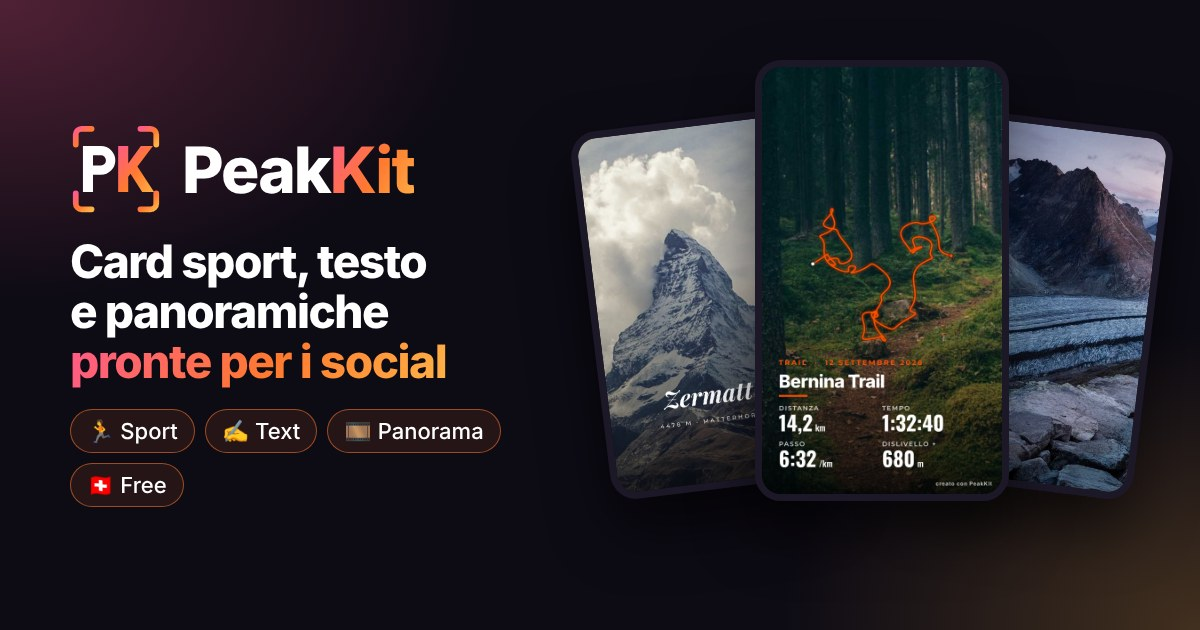
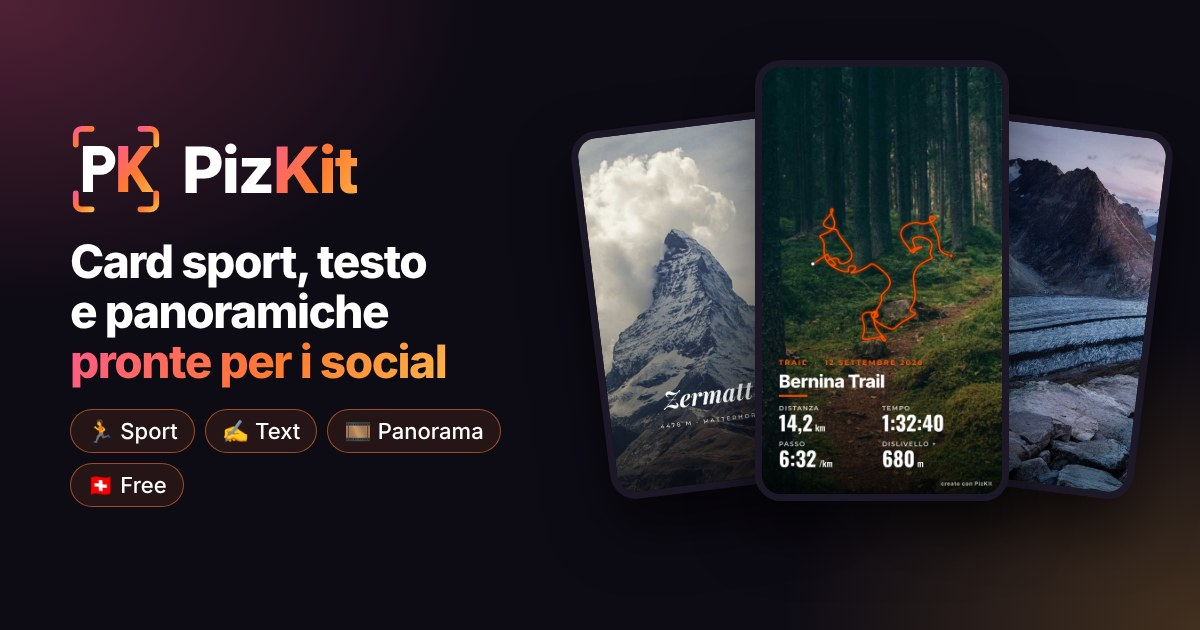
Rinomina PeakKit -> PizKit
PeakKit è già il nome di un'app per sportivi (peakkitapp.com).
PizKit: 'Piz' = cima in romancio; logo PK invariato.
Aggiornati UI, firma sulle card, manifest, anteprime home e immagine social.

Claude-Session: https://claude.ai/code/session_017tFVKR82BtrfiABxyApjMk

Changed region(s): [[0.185, 0.2111, 0.37, 0.3317], [0.7708, 0.754, 0.8017, 0.7841]]

diff --git a/src/i18n/strings.ts b/src/i18n/strings.ts
@@ -50,8 +50,8 @@ const it = {
   'common.moveH': 'Sposta foto ↔',
   'common.moveV': 'Sposta foto ↕',
   'common.filter': 'Filtro foto',
-  'common.badge': 'Firma “creato con PeakKit”',
-  'common.badgeText': 'creato con PeakKit',
+  'common.badge': 'Firma “creato con PizKit”',
+  'common.badgeText': 'creato con PizKit',
   'common.color': 'Colore',
   'common.customColor': 'Colore personalizzato',
 
@@ -199,7 +199,7 @@ const it = {
 
   // Registrazione al download
   'gate.title': 'Ti è piaciuto? ✨',
-  'gate.text': 'PeakKit resta gratuito. Per continuare a scaricare ti chiediamo nome ed email, una volta sola: ci aiutano a capire chi lo usa. Le tue foto restano sul tuo dispositivo.',
+  'gate.text': 'PizKit resta gratuito. Per continuare a scaricare ti chiediamo nome ed email, una volta sola: ci aiutano a capire chi lo usa. Le tue foto restano sul tuo dispositivo.',
   'gate.name': 'Nome',
   'gate.email': 'Email',
   'gate.consent1': 'Ho letto l’',
@@ -211,7 +211,7 @@ const it = {
   'gate.wait': 'Un attimo…',
   // App installabile
   'app.install': 'Installa l’app',
-  'app.title': 'PeakKit come app',
+  'app.title': 'PizKit come app',
   'app.text': 'Aggiungila alla schermata Home: si apre a tutto schermo come un’app vera, gratis e senza store.',
   'app.ios1': 'Tocca il pulsante Condividi',
   'app.ios2': 'Scegli “Aggiungi alla schermata Home”',
@@ -269,8 +269,8 @@ const en: Dict = {
   'common.moveH': 'Move photo ↔',
   'common.moveV': 'Move photo ↕',
   'common.filter': 'Photo filter',
-  'common.badge': '“made with PeakKit” signature',
-  'common.badgeText': 'made with PeakKit',
+  'common.badge': '“made with PizKit” signature',
+  'common.badgeText': 'made with PizKit',
   'common.color': 'Colour',
   'common.customColor': 'Custom colour',
 
@@ -411,7 +411,7 @@ const en: Dict = {
   'rate.thanks': 'Thanks for your feedback! 🙏',
 
   'gate.title': 'Enjoying it? ✨',
-  'gate.text': 'PeakKit stays free. To keep downloading, we ask for your name and email, only once: it helps us understand who uses it. Your photos stay on your device.',
+  'gate.text': 'PizKit stays free. To keep downloading, we ask for your name and email, only once: it helps us understand who uses it. Your photos stay on your device.',
   'gate.name': 'Name',
   'gate.email': 'Email',
   'gate.consent1': 'I have read the ',
@@ -422,7 +422,7 @@ const en: Dict = {
   'gate.continue': 'Continue',
   'gate.wait': 'One moment…',
   'app.install': 'Install the app',
-  'app.title': 'PeakKit as an app',
+  'app.title': 'PizKit as an app',
   'app.text': 'Add it to your Home Screen: it opens full screen like a real app, free and without an app store.',
   'app.ios1': 'Tap the Share button',
   'app.ios2': 'Choose “Add to Home Screen”',
@@ -477,8 +477,8 @@ const de: Dict = {
   'common.moveH': 'Foto verschieben ↔',
   'common.moveV': 'Foto verschieben ↕',
   'common.filter': 'Fotofilter',
-  'common.badge': 'Signatur «erstellt mit PeakKit»',
-  'common.badgeText': 'erstellt mit PeakKit',
+  'common.badge': 'Signatur «erstellt mit PizKit»',
+  'common.badgeText': 'erstellt mit PizKit',
   'common.color': 'Farbe',
   'common.customColor': 'Eigene Farbe',
 
@@ -619,7 +619,7 @@ const de: Dict = {
   'rate.thanks': 'Danke für dein Feedback! 🙏',
 
   'gate.title': 'Gefällt es dir? ✨',
-  'gate.text': 'PeakKit bleibt kostenlos. Für weitere Downloads fragen wir einmalig nach Name und E-Mail: So sehen wir, wer es nutzt. Deine Fotos bleiben auf deinem Gerät.',
+  'gate.text': 'PizKit bleibt kostenlos. Für weitere Downloads fragen wir einmalig nach Name und E-Mail: So sehen wir, wer es nutzt. Deine Fotos bleiben auf deinem Gerät.',
   'gate.name': 'Name',
   'gate.email': 'E-Mail',
   'gate.consent1': 'Ich habe die ',
@@ -630,7 +630,7 @@ const de: Dict = {
   'gate.continue': 'Weiter',
   'gate.wait': 'Einen Moment…',
   'app.install': 'App installieren',
-  'app.title': 'PeakKit als App',
+  'app.title': 'PizKit als App',
   'app.text': 'Füge sie zum Home-Bildschirm hinzu: Sie öffnet sich im Vollbild wie eine echte App – kostenlos und ohne App Store.',
   'app.ios1': 'Tippe auf den Teilen-Button',
   'app.ios2': 'Wähle «Zum Home-Bildschirm»',
@@ -685,8 +685,8 @@ const fr: Dict = {
   'common.moveH': 'Déplacer la photo ↔',
   'common.moveV': 'Déplacer la photo ↕',
   'common.filter': 'Filtre photo',
-  'common.badge': 'Signature « créé avec PeakKit »',
-  'common.badgeText': 'créé avec PeakKit',
+  'common.badge': 'Signature « créé avec PizKit »',
+  'common.badgeText': 'créé avec PizKit',
   'common.color': 'Couleur',
   'common.customColor': 'Couleur personnalisée',
 
@@ -827,7 +827,7 @@ const fr: Dict = {
   'rate.thanks': 'Merci pour ton avis ! 🙏',
 
   'gate.title': 'Ça te plaît ? ✨',
-  'gate.text': 'PeakKit reste gratuit. Pour continuer à télécharger, on te demande ton nom et ton e-mail, une seule fois : ça nous aide à savoir qui l’utilise. Tes photos restent sur ton appareil.',
+  'gate.text': 'PizKit reste gratuit. Pour continuer à télécharger, on te demande ton nom et ton e-mail, une seule fois : ça nous aide à savoir qui l’utilise. Tes photos restent sur ton appareil.',
   'gate.name': 'Nom',
   'gate.email': 'E-mail',
   'gate.consent1': 'J’ai lu la ',
@@ -838,7 +838,7 @@ const fr: Dict = {
   'gate.continue': 'Continuer',
   'gate.wait': 'Un instant…',
   'app.install': 'Installer l’app',
-  'app.title': 'PeakKit comme une app',
+  'app.title': 'PizKit comme une app',
   'app.text': 'Ajoute-la à l’écran d’accueil : elle s’ouvre en plein écran comme une vraie app, gratuitement et sans store.',
   'app.ios1': 'Touche le bouton Partager',
   'app.ios2': 'Choisis « Sur l’écran d’accueil »',

diff --git a/src/pages/Privacy.tsx b/src/pages/Privacy.tsx
@@ -31,7 +31,7 @@ const DOCS: Record<Lang, Doc> = {
       {
         h: 'Cosa raccogliamo',
         li: [
-          'Nome ed email: solo dal secondo download in poi (la prima immagine è libera). Servono a sapere chi usa PeakKit. Non li vendiamo né li cediamo a nessuno.',
+          'Nome ed email: solo dal secondo download in poi (la prima immagine è libera). Servono a sapere chi usa PizKit. Non li vendiamo né li cediamo a nessuno.',
           'Email di novità: solo se spunti la casella facoltativa (al massimo qualche email all’anno). Puoi revocare il consenso in ogni momento scrivendo all’indirizzo qui sotto.',
           'Statistiche d’uso: quale strumento apri, quali opzioni scegli, quante immagini crei e salvi, tipo di dispositivo e lingua. Mai il contenuto delle foto o il testo che scrivi.',
           'Valutazioni: la faccina e il commento, se decidi di lasciarli.',
@@ -69,7 +69,7 @@ const DOCS: Record<Lang, Doc> = {
       {
         h: 'What we collect',
         li: [
-          'Name and email: only from your second download on (the first image is free). They help us know who uses PeakKit. We never sell or share them.',
+          'Name and email: only from your second download on (the first image is free). They help us know who uses PizKit. We never sell or share them.',
           'Update emails: only if you tick the optional box (a few emails a year at most). You can withdraw your consent at any time by writing to the address below.',
           'Usage statistics: which tool you open, which options you choose, how many images you create and save, device type and language. Never the content of your photos or the text you write.',
           'Ratings: the face and comment, if you choose to leave them.',
@@ -107,7 +107,7 @@ const DOCS: Record<Lang, Doc> = {
       {
         h: 'Was wir erfassen',
         li: [
-          'Name und E-Mail: erst ab dem zweiten Download (das erste Bild ist frei). So wissen wir, wer PeakKit nutzt. Wir verkaufen oder teilen sie nie.',
+          'Name und E-Mail: erst ab dem zweiten Download (das erste Bild ist frei). So wissen wir, wer PizKit nutzt. Wir verkaufen oder teilen sie nie.',
           'E-Mails zu Neuigkeiten: nur wenn du das optionale Kästchen ankreuzt (höchstens ein paar E-Mails pro Jahr). Du kannst die Einwilligung jederzeit widerrufen, indem du an die Adresse unten schreibst.',
           'Nutzungsstatistiken: welches Werkzeug du öffnest, welche Optionen du wählst, wie viele Bilder du erstellst und speicherst, Gerätetyp und Sprache. Nie der Inhalt deiner Fotos oder der Text, den du schreibst.',
           'Bewertungen: das Gesicht und der Kommentar, falls du sie hinterlässt.',
@@ -145,7 +145,7 @@ const DOCS: Record<Lang, Doc> = {
       {
         h: 'Ce que nous collectons',
         li: [
-          'Nom et e-mail : seulement à partir du deuxième téléchargement (la première image est libre). Ils nous permettent de savoir qui utilise PeakKit. Nous ne les vendons ni ne les cédons jamais.',
+          'Nom et e-mail : seulement à partir du deuxième téléchargement (la première image est libre). Ils nous permettent de savoir qui utilise PizKit. Nous ne les vendons ni ne les cédons jamais.',
           'E-mails de nouveautés : seulement si tu coches la case facultative (quelques e-mails par an au maximum). Tu peux retirer ton consentement à tout moment en écrivant à l’adresse ci-dessous.',
           'Statistiques d’utilisation : quel outil tu ouvres, quelles options tu choisis, combien d’images tu crées et enregistres, type d’appareil et langue. Jamais le contenu de tes photos ni le texte que tu écris.',
           'Évaluations : le visage et le commentaire, si tu choisis de les laisser.',

diff --git a/index.html b/index.html
@@ -5,7 +5,7 @@
     <meta name="viewport" content="width=device-width, initial-scale=1.0, viewport-fit=cover" />
     <meta name="theme-color" content="#0d0b14" />
     <meta name="description" content="Foto pronte per i social in 30 secondi: card sport con i tuoi numeri e il percorso GPX, testo sulle foto, panoramiche divise per Instagram. Gratis, le foto restano sul tuo dispositivo." />
-    <meta property="og:title" content="PeakKit — foto pronte per i social" />
+    <meta property="og:title" content="PizKit — foto pronte per i social" />
     <meta property="og:description" content="Card sport con i tuoi numeri e il percorso, testo sulle foto, panoramiche divise per Instagram. Gratis e privato." />
     <meta property="og:type" content="website" />
     <meta name="referrer" content="strict-origin-when-cross-origin" />
@@ -16,17 +16,17 @@
     <meta name="mobile-web-app-capable" content="yes" />
     <meta name="apple-mobile-web-app-capable" content="yes" />
     <meta name="apple-mobile-web-app-status-bar-style" content="black-translucent" />
-    <meta name="apple-mobile-web-app-title" content="PeakKit" />
-    <meta name="application-name" content="PeakKit" />
+    <meta name="apple-mobile-web-app-title" content="PizKit" />
+    <meta name="application-name" content="PizKit" />
     <meta property="og:url" content="https://robyrighi.github.io/postkit/" />
-    <meta property="og:site_name" content="PeakKit" />
+    <meta property="og:site_name" content="PizKit" />
     <meta property="og:image" content="https://robyrighi.github.io/postkit/og-image.jpg" />
     <meta property="og:image:width" content="1200" />
     <meta property="og:image:height" content="630" />
-    <meta property="og:image:alt" content="PeakKit: card sport, testo e panoramiche pronte per i social" />
+    <meta property="og:image:alt" content="PizKit: card sport, testo e panoramiche pronte per i social" />
     <meta name="twitter:card" content="summary_large_image" />
     <meta name="twitter:image" content="https://robyrighi.github.io/postkit/og-image.jpg" />
-    <title>PeakKit — foto pronte per i social</title>
+    <title>PizKit — foto pronte per i social</title>
   </head>
   <body>
     <div id="root"></div>

diff --git a/src/modules/CarouselSplitter.tsx b/src/modules/CarouselSplitter.tsx
@@ -119,7 +119,7 @@ export function CarouselSplitter() {
       const strip = renderStrip(1)
       const sl = SLIDE[ratio]
       const out: File[] = []
-      const base = `peakkit-carousel-${stamp()}`
+      const base = `pizkit-carousel-${stamp()}`
       for (let i = 0; i < slides; i++) {
         const c = makeCanvas(sl.w, sl.h)
         ctx2d(c).drawImage(strip, i * sl.w, 0, sl.w, sl.h, 0, 0, sl.w, sl.h)
@@ -213,7 +213,7 @@ export function CarouselSplitter() {
       )}
       {error && !img && <p className="error">{error}</p>}
 
-      {files && <ExportPanel module={MODULE} files={files} zipName="peakkit-carousel.zip" onClose={reset} />}
+      {files && <ExportPanel module={MODULE} files={files} zipName="pizkit-carousel.zip" onClose={reset} />}
     </section>
   )
 }

diff --git a/src/modules/SportCard.tsx b/src/modules/SportCard.tsx
@@ -323,7 +323,7 @@ export function SportCard() {
     try {
       const c = compose()
       if (!c) return
-      setFiles([await canvasToFile(c, `peakkit-sport-${stamp()}.jpg`)])
+      setFiles([await canvasToFile(c, `pizkit-sport-${stamp()}.jpg`)])
       track(MODULE, 'export', { format, layout, sport, filter, km: num(km), time, sec: tt })
     } catch {
       setError(t('common.genericError'))
@@ -495,7 +495,7 @@ export function SportCard() {
         </div>
       )}
       {error && !img && <p className="error">{error}</p>}
-      {files && <ExportPanel module={MODULE} files={files} zipName="peakkit-sport.zip" onClose={reset} />}
+      {files && <ExportPanel module={MODULE} files={files} zipName="pizkit-sport.zip" onClose={reset} />}
     </section>
   )
 }

diff --git a/src/modules/TextStudio.tsx b/src/modules/TextStudio.tsx
@@ -222,7 +222,7 @@ export function TextStudio() {
     try {
       const c = compose()
       if (!c) return
-      setFiles([await canvasToFile(c, `peakkit-text-${stamp()}.jpg`)])
+      setFiles([await canvasToFile(c, `pizkit-text-${stamp()}.jpg`)])
       track(MODULE, 'export', { format, tpl: tplId, filter, behind })
     } catch {
       setError(t('common.genericError'))
@@ -411,7 +411,7 @@ export function TextStudio() {
         </div>
       )}
       {error && !img && <p className="error">{error}</p>}
-      {files && <ExportPanel module={MODULE} files={files} zipName="peakkit-text.zip" onClose={reset} />}
+      {files && <ExportPanel module={MODULE} files={files} zipName="pizkit-text.zip" onClose={reset} />}
     </section>
   )
 }

diff --git a/src/lib/templates.ts b/src/lib/templates.ts
@@ -349,8 +349,8 @@ export function pickContrast(hex: string): string {
   return 0.299 * r + 0.587 * g + 0.114 * b > 150 ? '#111111' : '#ffffff'
 }
 
-/** Piccola firma "creato con PeakKit" (si può disattivare). */
-export function drawBadge(ctx: CanvasRenderingContext2D, w: number, h: number, text = 'creato con PeakKit') {
+/** Piccola firma "creato con PizKit" (si può disattivare). */
+export function drawBadge(ctx: CanvasRenderingContext2D, w: number, h: number, text = 'creato con PizKit') {
   const px = Math.round(w * 0.022)
   ctx.save()
   ctx.font = `600 ${px}px "Inter", sans-serif`

diff --git a/src/lib/api.ts b/src/lib/api.ts
@@ -13,10 +13,10 @@ export const supabase = createClient(SUPABASE_URL, SUPABASE_KEY, {
 async function rpc(fn: string, args: Record<string, unknown>) {
   try {
     const { error } = await supabase.rpc(fn, args)
-    if (error) console.warn(`[peakkit] ${fn}:`, error.message)
+    if (error) console.warn(`[pizkit] ${fn}:`, error.message)
     return !error
   } catch (e) {
-    console.warn(`[peakkit] ${fn}:`, e)
+    console.warn(`[pizkit] ${fn}:`, e)
     return false
   }
 }

diff --git a/src/pages/Admin.tsx b/src/pages/Admin.tsx
@@ -136,7 +136,7 @@ function downloadCsv(rows: VisitorRow[]) {
   const blob = new Blob(['' + [head.join(';'), ...lines].join('\n')], { type: 'text/csv;charset=utf-8' })
   const a = document.createElement('a')
   a.href = URL.createObjectURL(blob)
-  a.download = `peakkit-utenti-${new Date().toISOString().slice(0, 10)}.csv`
+  a.download = `pizkit-utenti-${new Date().toISOString().slice(0, 10)}.csv`
   a.click()
   setTimeout(() => URL.revokeObjectURL(a.href), 3000)
 }

diff --git a/public/sw.js b/public/sw.js
@@ -1,4 +1,4 @@
-// Service worker di PeakKit: rende l'app installabile e utilizzabile offline.
+// Service worker di PizKit: rende l'app installabile e utilizzabile offline.
 // Nessuna foto passa di qui: vengono messe in cache solo le parti dell'app.
 // Elenco generato in fase di build (vedi vite.config.ts): tutta l'app per l'uso offline
 const PRECACHE = [] /*__PK_PRECACHE__*/

diff --git a/src/lib/config.ts b/src/lib/config.ts
@@ -5,7 +5,7 @@ export const SUPABASE_URL =
 export const SUPABASE_KEY =
   import.meta.env.VITE_SUPABASE_KEY ?? 'sb_publishable_FSqohYS9spPqI_2oEbVENA_YzHhI4-7'
 
-export const APP_NAME = 'PeakKit'
+export const APP_NAME = 'PizKit'
 // Contatto del sito (pagina privacy e area admin)
 export const CONTACT_EMAIL = 'robyrighi@outlook.com'
 // Titolare del trattamento dei dati (nLPD)

diff --git a/src/components/InstallApp.tsx b/src/components/InstallApp.tsx
@@ -1,4 +1,4 @@
-// Invito a installare PeakKit come app (PWA).
+// Invito a installare PizKit come app (PWA).
 // - Android / Chrome desktop: pulsante che apre il prompt di installazione del sistema
 // - iPhone/iPad (Safari): istruzioni passo passo "Condividi → Aggiungi alla schermata Home"
 // Non compare se l'app è già installata o se l'utente l'ha chiusa.
